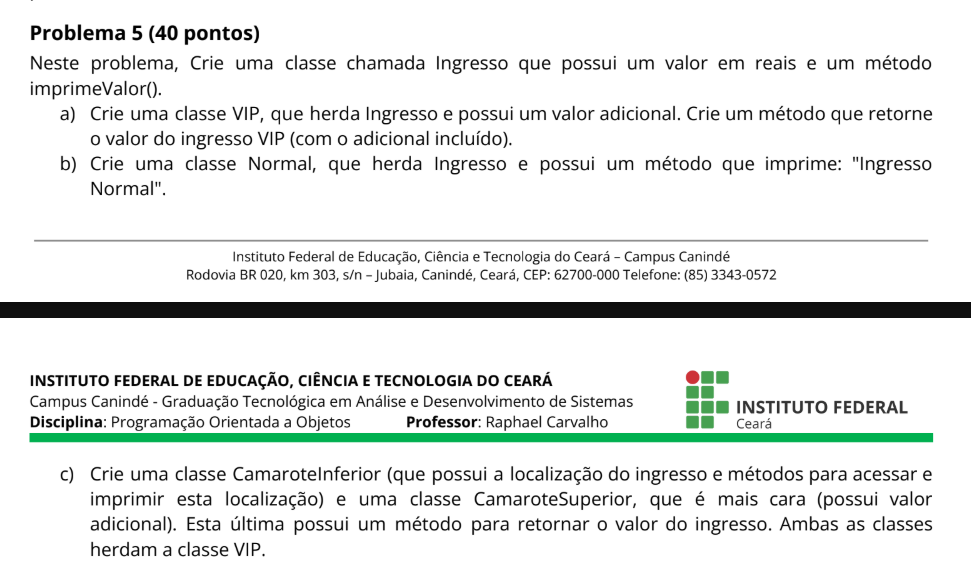
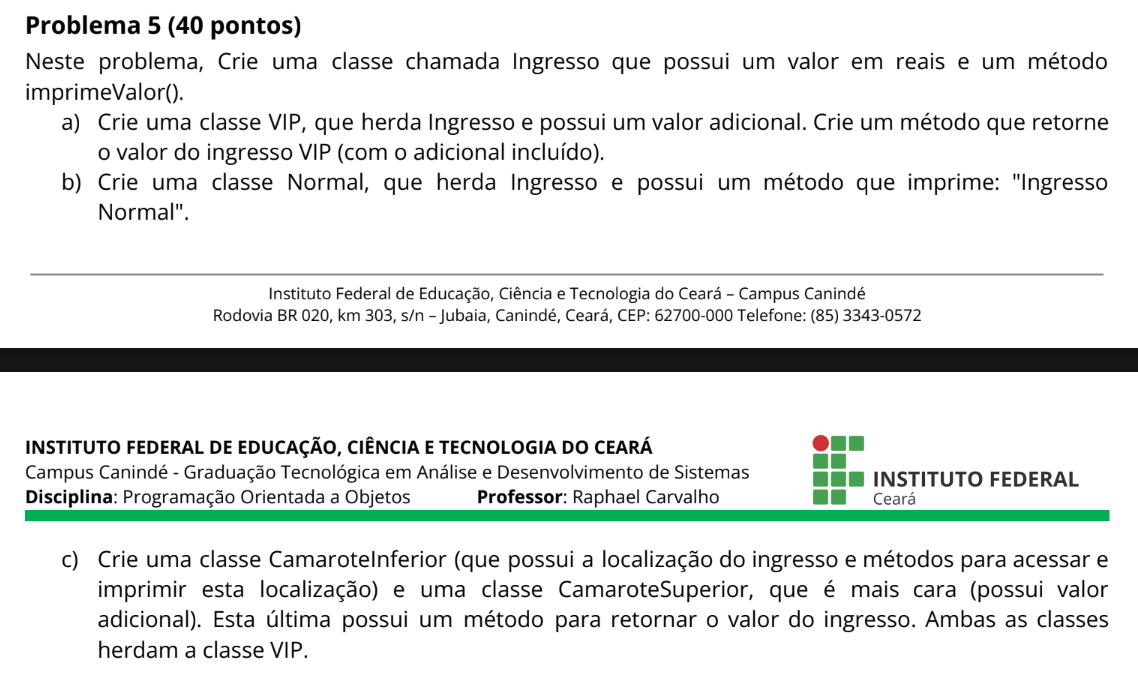
feat: resolução da questão 1, da atividade 6

diff --git a/src/ADS/Atividade6/Main.java b/src/ADS/Atividade6/Main.java
@@ -1,0 +1,53 @@
+package ADS.Atividade6;
+
+import java.util.Scanner;
+
+public class Main {
+    public static void main(String[] args) {
+        Scanner leitor = new Scanner(System.in);
+        System.out.println("Quadrado--------------------");
+        System.out.println("Digite o valor do lado do quadrado: ");
+
+        double ladoQuad  = leitor.nextDouble();
+        System.out.println("Circulo--------------------");
+        System.out.println("Digite o raio do circulo: ");
+        double raio  = leitor.nextDouble();
+
+        System.out.println("Triangulo--------------------");
+        System.out.println("Digite o valor da altura do triangulo: ");
+        double alturaTri = leitor.nextDouble();
+        System.out.println("Digite o valor da base do triangulo: ");
+        double baseTri = leitor.nextDouble();
+        System.out.println("Digite o valor do lado 1 do triangulo: ");
+        double l1Tri = leitor.nextDouble();
+        System.out.println("Digite o valor do lado 2 do triangulo: ");
+        double l2Tri = leitor.nextDouble();
+        System.out.println("--------------------");
+
+        Quadrado q = new Quadrado(
+                ladoQuad
+        );
+        Circulo c = new Circulo(
+                raio
+        );
+        Triangulo t = new Triangulo(
+                alturaTri,
+                baseTri,
+                l1Tri,
+                l2Tri
+        );
+        System.out.println("Nome da Figura: " + q.getNomeFigura());
+        System.out.println("Esse é o perímetro: " + q.getPerimetro());
+        System.out.println("Esse é a área: " + q.getArea());
+        System.out.println("--------------------");
+        System.out.println("Nome da Figura: " + c.getNomeFigura());
+        System.out.println("Esse é o perímetro: " + c.getPerimetro());
+        System.out.println("Esse é a área: " + c.getArea());
+        System.out.println("--------------------");
+        System.out.println("Nome da Figura: " + t.getNomeFigura());
+        System.out.println("Esse é o perímetro: " + t.getPerimetro());
+        System.out.println("Esse é a área: " + t.getArea());
+
+
+    }
+}

diff --git a/src/ADS/Atividade5/VIP.java b/src/ADS/Atividade5/VIP.java
@@ -1,34 +1,8 @@
 package ADS.Atividade5;
 
-public class VIP extends Ingresso {
-    private float valorAdd;
+public class VIP extends Ingresso{
 
-
-
-    public VIP(float valor, float valorAdd) {
+    public VIP(float valor) {
         super(valor);
-        this.valorAdd = valorAdd;
-    }
-
-    public float getValorAdd() {
-        return valorAdd;
-    }
-
-    public void setValorAdd(float valorAdd) {
-        this.valorAdd = valorAdd;
-    }
-
-    @Override
-    public void imprimeValor(){
-        float result = super.valor + valorAdd;
-        System.out.println("Ingresso VIP custa: " + result);
-    }
-
-    public static void main(String[] args) {
-      VIP v = new VIP(
-              500,
-              50
-      );
-      v.imprimeValor();
     }
 }

diff --git a/src/ADS/Atividade6/Triangulo.java b/src/ADS/Atividade6/Triangulo.java
@@ -1,0 +1,30 @@
+package ADS.Atividade6;
+
+public class Triangulo implements FiguraGeometrica{
+    private double altura;
+    private double base;
+    private double lado1;
+    private double lado2;
+
+    public Triangulo(double altura, double base, double lado1, double lado2) {
+        this.altura = altura;
+        this.base = base;
+        this.lado1 = lado1;
+        this.lado2 = lado2;
+    }
+
+    @Override
+    public double getArea() {
+        return (base *  altura) / 2;
+    }
+
+    @Override
+    public double getPerimetro() {
+        return lado1 + lado2 + base;
+    }
+
+    @Override
+    public String getNomeFigura() {
+        return "Triangulo";
+    }
+}

diff --git a/src/ADS/Atividade6/Circulo.java b/src/ADS/Atividade6/Circulo.java
@@ -1,0 +1,24 @@
+package ADS.Atividade6;
+
+public class Circulo implements FiguraGeometrica{
+    private double raio;
+
+    public Circulo(double raio) {
+        this.raio = raio;
+    }
+
+    @Override
+    public double getArea() {
+        return 3.14 * (raio * raio);
+    }
+
+    @Override
+    public double getPerimetro() {
+        return 2 *  3.14 * raio;
+    }
+
+    @Override
+    public String getNomeFigura() {
+        return "Circulo";
+    }
+}

diff --git a/src/ADS/Atividade6/Quadrado.java b/src/ADS/Atividade6/Quadrado.java
@@ -1,0 +1,24 @@
+package ADS.Atividade6;
+
+public class Quadrado implements FiguraGeometrica {
+    private double lado1;
+
+    public Quadrado(double lado1) {
+        this.lado1 = lado1;
+    }
+
+    @Override
+    public double getArea() {
+        return lado1 * lado1;
+    }
+
+    @Override
+    public double getPerimetro() {
+        return 4 *  lado1;
+    }
+
+    @Override
+    public String getNomeFigura() {
+        return "Quadrado";
+    }
+}

diff --git a/src/ADS/Atividade5/Ingresso.java b/src/ADS/Atividade5/Ingresso.java
@@ -1,11 +1,13 @@
 package ADS.Atividade5;
 
 public class Ingresso {
-    float valor;
-    public void imprimeValor(){
-        System.out.println("Ingresso custa: " + valor);
-    }
+    private float valor;
+
     public Ingresso(float valor) {
         this.valor = valor;
+    }
+
+    float imprimeValor() {
+        return this.valor;
     }
 }

diff --git a/src/ADS/Atividade6/FiguraGeometrica.java b/src/ADS/Atividade6/FiguraGeometrica.java
@@ -1,0 +1,7 @@
+package ADS.Atividade6;
+
+public interface FiguraGeometrica {
+    public double getArea();
+    public double getPerimetro();
+    public String getNomeFigura();
+}
